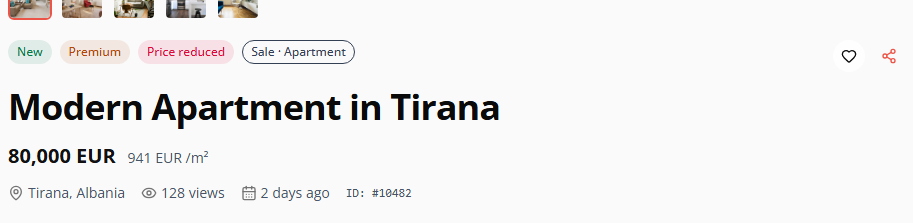
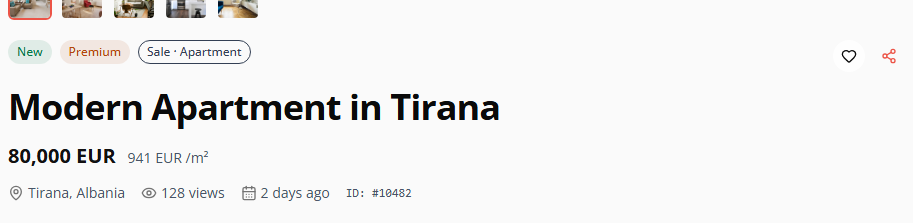
docs(Task912): review 8 PARTIALLY VERIFIED - Revision 7 verified with screenshots of every matrix tuple (state x Story table in section 25); owner matrix O88-2..O88-4 handed over; R31 (P3) relative date in the ListingDetailView Story owed

Changed region(s): [[0.1533, 0.1614, 0.3987, 0.296]]

diff --git a/docs/backlog.md b/docs/backlog.md
@@ -41,7 +41,7 @@
 **Sprint 74 — one card width for the whole site** (`tasks/Sprints/Sprint_74_One_Card_Width_For_The_Whole_Site.md`): opened 2026-09-10 by owner instruction after he compared the live homepage and listing page against Booking.com. Measured defect: five surfaces render `ListingCard` with five different width contracts — Featured `cols={{base:1,sm:2,xl:3,xxl:4}}`, Latest `{{base:1,md:2,xxl:3}}`, RecentlyViewed a 192px rail then a 2/3/4 grid, Similar a 83.3%→23.8% rail, `/listings` `{{base:1,sm:2,xl:3,xxl:4}}` — so at 560px the same card is 192px in one section and ≈433px in another, and Featured/Latest pass no `layoutContext` at all. 🟠 OPEN for **811 · 814** (registry below). Carries **D74-1** (one shared track: `repeat(auto-fill, minmax(var(--listing-card-min), 1fr))` for grids and the same width for rails; per-surface column ladders are removed, not re-tuned), **D74-2** (`--listing-card-min` = **280px**; 260 and 300 were the rejected alternatives) and **D74-3** (below 640px: section rails scroll with a visible peek, `/listings` stays a single full-width column) and **D74-4** (2026-09-10 — Featured and Latest are rails at every width too, so `/listings` is the only `grid` consumer). Goal-fit table in the plan file rules out 46/55/56/57/61/62/68/69/70/71/72/73. **D74-6** (2026-09-10 — on a rail `--listing-card-min` is a **maximum**: the card shrinks to a fraction of the track so a tail of the next card is always visible when more cards exist than fit; measured trigger — a 872px container fits exactly three 280px cards and leaves 0px of the fourth. In the grid it stays the `minmax()` minimum). **D74-7** (`offset`=36; the reference's 30 leaves 0.64px at 1344px — rejected), **D74-8** (a click scrolls `floor(clientWidth/(card+gap))×(card+gap)`, a whole snap-aligned page, so AC3 stands and the code moves to it) and **D74-9** (the count ladder keys on the **container**, not the viewport: `@container` on a `container-type: inline-size` wrapper at the same 30/48/64/80em rungs — D74-5 stays a media query) were taken on 810's review 2026-09-10. **D74-10** (Favorites is a **grid** consumer of the track — it is paginated; amends D74-4's "only grid consumer" sentence), **D74-11** (`'3-col-xl'` deleted in 809 — exactly two consumers, both in its scope) and the owner's full-de-Tailwind scope decision were taken on 809's kickoff 2026-09-10.
 **Sprint 77 — the full test suite is red, and no gate runs it** (`tasks/Sprints/Sprint_77_The_Full_Test_Suite_Nobody_Runs.md`): opened 2026-09-18 by owner instruction for **790**, which had been reserved since 2026-09-05 with no sprint; goal-fit table in the plan file rules out 46/55/56/57/61/62/68/69/70/71/72/73/74. 🟠 OPEN: **790** (everything after its R1) reserved. **Goal widened by owner decision 2026-09-18** ("Розширити мету Sprint 77") to host **786 · 799 · 800 · 798 · 801 · 802**, each re-measured as still needed. All are reserved; no kickoff is written yet. Order and relevance evidence are in the plan file.
 **Sprint 78 — the admin and agent dashboards, rebuilt on canonical Mantine** (`tasks/Sprints/Sprint_78_Admin_And_Agent_Dashboards_On_Canonical_Mantine.md`): opened 2026-09-18 by owner instruction. 🟠 OPEN: **910 · 911 · 915 · 916** reserved · **859 · 864** `KICKOFF FILED` 2026-09-29 · **919** `KICKOFF FILED` 2026-10-03 (ready: 857 landed) (owner matrices **O78-13 · O78-14**); **859** also gates Sprint 84's **885**. Carries **D78-1…D78-16**. Open owner items: **O78-7b/7c** — after the deploy, the rich-text editor on a phone and every live page compared before saving (plan, O78-7) · **O78-3**'s last check (the first scheduled refresh row) rides on the ⏰ cron row above · **O78-9** — after the deploy, one real email change on a test account (860 §13.3) · **O78-11** — after the deploy, the ADM-02 card lands on `?status=pending` and one test report resolves (858). Waves, order and every closure are in the plan file; its Tasks table is the state source.
-**Sprint 87 — every Story sits at its real distance from the screen edge, measured on four sides** (`tasks/Sprints/Sprint_87_Every_Story_Measured_On_Four_Sides.md`): 🟠 OPEN, opened 2026-10-01 by owner instruction (*"треба щоб тест вимірював всі 4 сторони, і якщо немає відступу - додавати"*). **909** `KICKOFF FILED` (amended 2026-10-03, **D87-2**: the primitive Story frame loses its border, R9) — blocking `check:story-gutters` over every canonical Mantine Story + `StoryPageGutter sides` + every day-one failure fixed; unblocked (890 landed 2026-10-01). · **Sprint 88 — a struck-through price means the owner lowered it** (`tasks/Sprints/Sprint_88_A_Struck_Price_Means_A_Reduction.md`): 🟠 OPEN, opened 2026-10-01 by the owner's regression report (currency change → struck "original price" on the listing). **912** `NEEDS REVISION` (review 7 → §24 Revision 7: two Story fixture contradictions; O88-1 accepted). Gallery → **794**, next after 912 (D88-5). **917** closed 2026-10-03. · **Sprint 89 — the listing card, rebuilt on the owner's reference** (`tasks/Sprints/Sprint_89_The_Listing_Card_Rebuilt_On_The_Owners_Reference.md`): 🟠 OPEN, opened 2026-10-02 by owner instruction. **918** `KICKOFF FILED`, starts after **912**, **794** (D88-5), **741 R2** and **857** are approved; owner matrix **O89-1…O89-11**.
+**Sprint 87 — every Story sits at its real distance from the screen edge, measured on four sides** (`tasks/Sprints/Sprint_87_Every_Story_Measured_On_Four_Sides.md`): 🟠 OPEN, opened 2026-10-01 by owner instruction (*"треба щоб тест вимірював всі 4 сторони, і якщо немає відступу - додавати"*). **909** `KICKOFF FILED` (amended 2026-10-03, **D87-2**: the primitive Story frame loses its border, R9) — blocking `check:story-gutters` over every canonical Mantine Story + `StoryPageGutter sides` + every day-one failure fixed; unblocked (890 landed 2026-10-01). · **Sprint 88 — a struck-through price means the owner lowered it** (`tasks/Sprints/Sprint_88_A_Struck_Price_Means_A_Reduction.md`): 🟠 OPEN, opened 2026-10-01 by the owner's regression report (currency change → struck "original price" on the listing). **912** `PARTIALLY VERIFIED` (review 8; owner matrix O88-2…O88-4 owed; R31 owed, kickoff §25). Gallery → **794**, next after 912 (D88-5). **917** closed 2026-10-03. · **Sprint 89 — the listing card, rebuilt on the owner's reference** (`tasks/Sprints/Sprint_89_The_Listing_Card_Rebuilt_On_The_Owners_Reference.md`): 🟠 OPEN, opened 2026-10-02 by owner instruction. **918** `KICKOFF FILED`, starts after **912**, **794** (D88-5), **741 R2** and **857** are approved; owner matrix **O89-1…O89-11**.
 
 ## Task registry — single source for every open number. Last used **919**, NEXT FREE **920** (**919** allocated 2026-10-03 to Sprint 78 by owner request — admin table row checkboxes, bulk delete, row edit/delete icons, D78-13…16; **918** allocated 2026-10-02 to Sprint 89 by owner instruction — the card rebuilt on the Lahomes reference; **916** reserved 2026-10-02 to Sprint 78 by 857 review 3 — the five legacy admin table managers onto Mantine under §7.3 table fit, one task by owner instruction → `backlog-reserved.md`; **915** reserved 2026-10-02 to Sprint 78 by 857 review 2 — every existing `MantineModal` dialog onto the §23.6 action hierarchy → `backlog-reserved.md`; **914** allocated 2026-10-01 to Sprint 84 by the owner's 320px return on `/admin/users/new`; **913** reserved 2026-10-01 to Sprint 71 by 912's design — five listing-detail nodes with no manifest, no Story, no open owner → `backlog-reserved.md`; **912** allocated 2026-10-01 to Sprint 88 by the owner's price-strikethrough regression report; **911** reserved 2026-10-01 to Sprint 78 by 868 review 2 — two unauthenticated admin upload routes → `backlog-reserved.md`; **910** reserved 2026-10-01 to Sprint 78 by 868 review 1 — `check:i18n-hardcode` red since 852 → `backlog-reserved.md`; **909** allocated 2026-10-01 to Sprint 87 by owner instruction — the four-side Story gutter gate; **908** reserved 2026-10-01 by 890 review 2, P3, no sprint yet — the `MantineDashboardCard` stale badge clips its time at 320px → `backlog-reserved.md`; **906 · 907** reserved 2026-09-30 to Sprint 86 by 905's design — 906 `ImageUpload`, 907 the form shell/view/admin edit panel → `backlog-reserved.md`; **904 · 905** from owner O83-2, kickoffs filed; **903** reserved 2026-09-30 by 886 review 8, P2, no sprint yet — the listing-detail features print raw `listing.condition` / `listing.heating` keys (`presentationEngine.ts` `labelKey: key`) → `backlog-reserved.md`; **902** reserved 2026-09-30 by 886 review 2b, P3, no sprint yet — narrowed 2026-10-01 by 890 review 2 to `DashboardStatCard.stories.tsx` without the GR-3d gutter profile → `backlog-reserved.md`; **900 · 901** reserved 2026-09-30 by 888 review 1, P3, no sprint yet — 900 `/admin/users/[id]` throws on `me!.id` for a lost session; 901 `/en/auth/login` attribute hydration mismatch under `next dev` → `backlog-reserved.md`; **899** reserved 2026-09-30 by 865 review 2, P3, no sprint yet — the view route answers `recorded:false` because `record_listing_view` returns `void` → `backlog-reserved.md`; **898 retired unused** 2026-09-29 and **Sprint 85** with it — the owner replaced the task with rule GR-3d; never reuse either; 897 allocated 2026-09-29 to Sprint 57 by owner D897-1/D897-2 — retire the legacy governance scans; 892–896 reserved 2026-09-27 to Sprint 84 by 885's design — the legacy screens D84-1 requires migrated first; 889 · 890 · 891 allocated 2026-09-27 to Sprint 78 by owner decision D78-9 — dashboards to the owner's references; 855 · 856 folded into 890/891, never reuse; 888 allocated 2026-09-27 to Sprint 78 by 853 review 2 — `check:hydration --with-admin` routes 404 and skip `/admin`; 887 allocated 2026-09-26 to Sprint 78 by 853 review 1 — `check:listing-visibility` red since 850; 885 allocated 2026-09-25 to Sprint 78 by the owner's 24-hour decision during 860's design, moved to Sprint 84 on 2026-09-27; 884 allocated 2026-09-25 to Sprint 79 by owner instruction "заведи окрему задачу" — CMS body sanitising; 883 allocated 2026-09-25 to Sprint 80 by 881's review, F3; 882 allocated 2026-09-24 to Sprint 82 by D82-7; 880 · 881 allocated 2026-09-24 — 880 to Sprint 82, 881 to Sprint 80 by D82-4; 877 allocated 2026-09-24 to Sprint 78 by 874's design; 878 · 879 on 2026-09-24 to Sprint 81 by the owner's header audit, D81-7; 862 folded into 861; **866 retired unused** 2026-09-21 — never reuse either; 867 · 868 allocated 2026-09-21 and 869 on 2026-09-23, all to Sprint 79; 870 · 871 allocated 2026-09-23 to Sprint 80; 872 on 2026-09-23 and 873 · 874 · 875 · 876 on 2026-09-24, all to Sprint 81).
 
@@ -49,7 +49,7 @@
 
 | # | State | What |
 |---|---|---|
-| **909 · 912** | **909** Sprint 87 · **912** Sprint 88; both opened 2026-10-01 | **909** `KICKOFF FILED` 2026-10-01 — `check:story-gutters`, the four-side GR-3d gate over every canonical Mantine Story (D87-1 shell-chrome list); 890 has landed, so it is unblocked. Kickoff `tasks/Sprints/Sprint_87_kickoff_prompt_Task_909_Story_Gutters_Four_Sides_Gate.md`. · **912** `NEEDS REVISION` 2026-10-03 (review 7 → kickoff §24 Revision 7, two Story fixtures: ListingDetailPattern "Not reduced"/"Converted" sections show the "Price reduced" badge (R29), the two new ListingDetailView exports keep price_old 138000 (R30); GR-7 RETRACTION of §20.3/§21.2 counts; O88-1 accepted, R1–R28 otherwise verified); filed 2026-10-01, **P1**, **Q4** — contact card's converted-currency line loses `line-through` (regression from 793) and the card shows the struck old price when `price_old > price` (owner D88-1, one-prop pass-through via `ListingDetailView`/`ListingContact`); `ListingCard` strikes `price_old` only when `price_old > price` → [kickoff](../tasks/Sprints/Sprint_88_kickoff_prompt_Task_912_Strikethrough_Only_For_Real_Reduction.md). |
+| **909 · 912** | **909** Sprint 87 · **912** Sprint 88; both opened 2026-10-01 | **909** `KICKOFF FILED` 2026-10-01 — `check:story-gutters`, the four-side GR-3d gate over every canonical Mantine Story (D87-1 shell-chrome list); 890 has landed, so it is unblocked. Kickoff `tasks/Sprints/Sprint_87_kickoff_prompt_Task_909_Story_Gutters_Four_Sides_Gate.md`. · **912** `PARTIALLY VERIFIED` 2026-10-03 (review 8, kickoff §25: R1–R30 verified with screenshots of every matrix tuple; owner matrix O88-2…O88-4 with the owner (O88-1 accepted); executor owes §25.2 R31, the ListingDetailView Story relative date in the viewer locale, P3); filed 2026-10-01, **P1**, **Q4** — contact card's converted-currency line loses `line-through` (regression from 793) and the card shows the struck old price when `price_old > price` (owner D88-1, one-prop pass-through via `ListingDetailView`/`ListingContact`); `ListingCard` strikes `price_old` only when `price_old > price` → [kickoff](../tasks/Sprints/Sprint_88_kickoff_prompt_Task_912_Strikethrough_Only_For_Real_Reduction.md). |
 | **859 · 864 · 919** | **Sprint 78**; 859 · 864 `KICKOFF FILED` 2026-09-29; **919** `KICKOFF FILED` 2026-10-03 (P1 Q4, ready — 857 landed 2026-10-03: row checkboxes, bulk-delete button, Lahomes tinted row edit/delete icons on listings/users/currencies/providers/pages/reports; owner D78-13…16; GR-7 research → [kickoff](../tasks/Sprints/Sprint_78_kickoff_prompt_Task_919_Table_Row_Selection_And_Actions.md)) | **859** P2 Q3 `/admin/support?assigned=unassigned&status=` + Mantine → [kickoff](../tasks/Sprints/Sprint_78_kickoff_prompt_Task_859_Admin_Support_Unassigned_Landing_On_Mantine.md) · **864** P2 Q1 `check:kickoff-git-grep` in the Opus Stop hook + `period.ts` exports `addDays`; revision 1 2026-09-30 (executor I0 block upheld): starts after **886** lands (`package.json`), policy edits R1/R5/GR-6 row moved to Opus review closure → [kickoff](../tasks/Sprints/Sprint_78_kickoff_prompt_Task_864_Kickoff_Grep_Guard_And_Period_AddDays.md). |
 | **885 · 895 · 914** | **Sprint 84**; **885** `KICKOFF FILED` 2026-09-27, **P2**, **Q4**, **blocked** on 895 + 859 (owner D84-1 *"Migrate first"*); **895** `KICKOFF FILED` 2026-09-29; **914** `KICKOFF FILED` 2026-10-01, **P2**, Q3 | **885** — 24-hour clock in every locale and day-first `en` numeric dates (D84-0…D84-3); `DATE_FORMAT` loses its 12-hour branch, the audit-log time gets `hourCycle: 'h23'`, and a CI guard rejects any 12-hour output or option; I0 stops unless every affected surface's census is clean → [kickoff](../tasks/Sprints/Sprint_84_kickoff_prompt_Task_885_24_Hour_Clock_And_Day_First_Dates.md). Migration first: **895** `/cabinet`, Q4, after 886, subsumes 789 → [kickoff](../tasks/Sprints/Sprint_84_kickoff_prompt_Task_895_Cabinet_On_Mantine.md). **914** `/admin/users/new` + `/[id]` header card stacks avatar/title below 640 (owner return on 893; rule GR-3b "Sections stack into rows on a phone"); owner matrix **O84-9** → [kickoff](../tasks/Sprints/Sprint_84_kickoff_prompt_Task_914_Admin_User_Profile_Header_Stacks_On_Phone.md). |
 | **839 · 840** | reserved 2026-09-18 at Sprint 75 closure, owner instruction "закривай спринт і заводь задачі на міграцію" | The legacy behind Sprint 75's `next/dynamic` finding, migrated rather than detected (owner rule 2026-09-18). **839** Sprint 71 — `Map` leaves Tailwind, own Story + manifest · **840** Sprint 69, **Q4** critical flow — `FilterChoiceGroup`/`YearCombobox` Tailwind residue removed, four filter leaves enrolled; it extends `FilterControls.stories.tsx` after 841's section. Full text → `backlog-reserved.md`. |

diff --git a/tasks/Sprints/Sprint_88_kickoff_prompt_Task_912_Strikethrough_Only_For_Real_Reduction.md b/tasks/Sprints/Sprint_88_kickoff_prompt_Task_912_Strikethrough_Only_For_Real_Reduction.md
@@ -10,7 +10,10 @@
 > reads the new order. The price **colour** (dark when not reduced, coral when reduced, D89-7) on the listing page is
 > **912**'s since Revision 4 (§20). *Superseded wording, 2026-10-03: "is 918's … keep the colour unchanged here".*
 
-> **Revision 7 (2026-10-03, review 7): §24 is the current executable route.** Two Story fixtures only. §24.3 also
+> **Review 8 (2026-10-03): `PARTIALLY VERIFIED`, §25.** The owner matrix §23.6 (O88-2…O88-4) is with the owner.
+> Executor: only §25.2 R31 (the relative date in the `ListingDetailView` Story) is owed.
+>
+> **Revision 7 (2026-10-03, review 7): §24.** Two Story fixtures only. §24.3 also
 > holds a GR-7 RETRACTION of §20.3/§21.2's inventory counts.
 >
 > **Revision 6 (2026-10-03, owner return on §22.2): §23.** Story files only. Every
@@ -1433,3 +1436,67 @@ Before §23.6 goes to the owner, review 8 does all of the following:
 - re-runs `rv7-crops.mjs` and `rv7-shots.mjs`;
 - **looks at** the screenshot of every §23.6 tuple;
 - checks every badge, price, struck line and owner line against production's rules (the state × Story table in §23.2).
+
+## 25. Review 8 (2026-10-03): Revision 7 verified — `PARTIALLY VERIFIED`, owner matrix §23.6 handed over; one P3 fixture owed
+
+**Scope reviewed.** Two Story files changed: `ListingDetailPattern.stories.tsx` (`65449bcc`) and
+`ListingDetailView.stories.tsx` (`3bc68885`). `ListingContactPattern.stories.tsx` (`05c80272`), the production files
+and the test files are unchanged. Build-storybook ran at 22:34:41, after the 22:33:38 edit.
+
+**Opus's own evidence (`win32`):**
+- `rv8-crops.txt`: the badge row and price of all 11 detail blocks.
+- `rv8-sections.txt`: the contact card of each `ListingDetailPattern` section.
+- `rv7-shots/*.png`: full-page screenshots of every §23.6 tuple, plus `section_detailpattern_*.png`. Opus looked at
+  them, in particular:
+  - `section_detailpattern_1`: plain;
+  - `section_detailpattern_2` and `crop_detailpattern_2`: converted;
+  - `listingdetailview--public-listing-converted_uk_390`;
+  - `listingcontactpattern--default_uk_320` and `_en_1440`.
+
+**Result per state × Story (§23.2 rule):**
+
+| Story | Not reduced | Reduced | Converted | Reduced + converted |
+|---|---|---|---|---|
+| `ListingPrice/Default` | dark | coral, struck above | dark + owner line | coral, struck above, owner line |
+| `ListingContactPattern/Default` | dark (card 1) | coral, struck (card 2 + six other sections) | dark + owner line (card 3) | coral + owner line (card 4) |
+| `ListingDetailView` | `PublicListingNotReduced`: dark ×2, no badge | `PublicListing`: coral ×2, struck, badge | `PublicListingConverted`: dark ×2, owner line ×2, `147,059 ALL /m²`, no badge | (covered in the other three Stories) |
+| `ListingDetailPattern/Default` | section 1: dark ×2, no badge | sections 0, 3, 5, 7: coral ×2, struck, badge | section 2: dark ×2, owner line, `94,118 ALL /m²`, no badge | section 6 (E4): coral ×2, struck, owner line, badge |
+
+- Section 4 of `ListingDetailPattern` is the E2 `contactSlot` demo, which has no contact card by design.
+- R1–R30 and AC1–AC26 are `VERIFIED`. R23 is superseded by R25.
+- **Visual criterion: `NOT VERIFIABLE`** until the owner returns §23.6 (O88-2, O88-3, O88-4).
+
+### 25.1 Visible on the matrix pages, not 912's (stated to the owner with the matrix)
+
+| What the owner will see | Where | Owner |
+|---|---|---|
+| Raw keys `listing.condition` / `listing.heating` in the amenities card | `ListingDetailView` (all exports) | **903** (`backlog-reserved.md`, P2) |
+| The map popup's listing title runs under the zoom control and is cut | `ListingDetailView` (all exports) | **839** (Map) / **798** |
+| The legacy gallery placeholder ("Всі фото (3)" button, grey frame) | `ListingDetailView` (all exports) | **794** (D88-5, next after 912) |
+
+### 25.2 R31 (P3, owed before approval): the relative date in `ListingDetailView` follows production
+
+- **Observed.** In `uk`, `sq` and `it` the page reads **"2 days ago"** in English (`rv7-shots/listingdetailview--public-listing-converted_uk_390.png`).
+- **Cause.** `ListingDetailView.stories.tsx:171` is a hand-written arg, `relativeTimeStr: '2 days ago'` (Task 237
+  fixture). Production computes it with `formatDistanceToNow(new Date(listing.created_at), { addSuffix: true, locale: dfLocale })`
+  (`[slug]/page.tsx:244`), where `dfLocale = DATE_LOCALE_MAP[locale] ?? enUS` (`:243`), over
+  `{ enUS, it, uk, sq }` (`:3`).
+- **Required.** In the wrapper `ListingDetailViewStory`:
+  - compute `relativeTimeStr = formatDistance(new Date(props.listing.created_at), new Date(STORY_NOW), { addSuffix: true, locale: STORY_DATE_LOCALES[storyLocale] ?? enUS })`;
+  - `STORY_NOW = '2026-05-03T00:00:00.000Z'`, which is the fixture's `created_at` + 2 days, so `en` still reads "2 days
+    ago". Use a fixed "now", so the Story does not change from day to day;
+  - `STORY_DATE_LOCALES = { en: enUS, it, uk, sq }`, with a comment that cites `page.tsx:3,243-244`;
+  - delete the `relativeTimeStr` arg, and add `'relativeTimeStr'` to the wrapper's `Omit<…>`.
+- Nothing else changes. No production file changes.
+- **AC27 [R31].** `PublicListing` at 390 reads:
+  - `en`: "2 days ago";
+  - `uk`: "2 дні тому";
+  - `sq` and `it`: the date-fns phrase for that locale.
+
+  No export shows an English relative date in a non-English locale. `git grep -n "'2 days ago'"` in that file
+  returns no hit.
+- **Verification:** `typecheck`, `lint`, `check:mojibake` and `build-storybook` exit 0, then re-run
+  `rv7-shots.mjs`. The price blocks must be unchanged (`rv7-crops.mjs` output equal to `rv8-crops.txt`).
+
+R31 does not touch any price, badge or colour, so the owner can review §23.6 while it is done. The approval review
+checks R31, the owner's §23.6 return and a fresh `npm.cmd run build` together.

diff --git a/tasks/Sprints/Sprint_88_A_Struck_Price_Means_A_Reduction.md b/tasks/Sprints/Sprint_88_A_Struck_Price_Means_A_Reduction.md
@@ -57,7 +57,7 @@ The Tasks table is the single state source.
 | # | Title | P | QA | Depends on | State |
 |---|---|---|---|---|---|
 | **917** | The server records the previous price on a reduction — `price_old` computed from the stored row in `updateListing` (D88-2, D88-3), ignored from the client, null on create | P1 | Q4 (critical-flow rows "Listings display — price" and "Listing card rendering" read it) | — | ✅ `APPROVED` 2026-10-03 (review 1; [ledger](../../docs/reviews/2026-10-03-task917-server-records-previous-price.review-ledger.json)) → [`…_Task_917_…`](../Archive/Sprint_88_kickoff_prompt_Task_917_Server_Records_Previous_Price.md) |
-| **912** | Strikethrough only for a real reduction — contact card's converted-price line loses `line-through` and the card gains the struck old price when `price_old > price` (D88-1); `ListingCard` shows `priceOld` only when `price_old > price` | P1 | Q4 (critical-flow rows "Listings display — price" and "Listing card rendering") | — | `NEEDS REVISION` (review 7, 2026-10-03 → kickoff §24 Revision 7: two Story fixture contradictions, R29/R30; O88-1 accepted) → [`…_Task_912_…`](Sprint_88_kickoff_prompt_Task_912_Strikethrough_Only_For_Real_Reduction.md) |
+| **912** | Strikethrough only for a real reduction — contact card's converted-price line loses `line-through` and the card gains the struck old price when `price_old > price` (D88-1); `ListingCard` shows `priceOld` only when `price_old > price` | P1 | Q4 (critical-flow rows "Listings display — price" and "Listing card rendering") | — | `PARTIALLY VERIFIED` (review 8, 2026-10-03, kickoff §25: R1–R30 verified; owner matrix O88-2…O88-4 owed; R31 P3 owed) → [`…_Task_912_…`](Sprint_88_kickoff_prompt_Task_912_Strikethrough_Only_For_Real_Reduction.md) |
 
 ## Execution order
 
